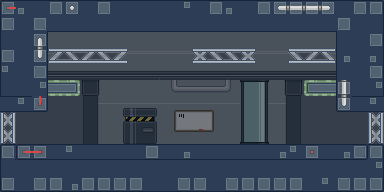
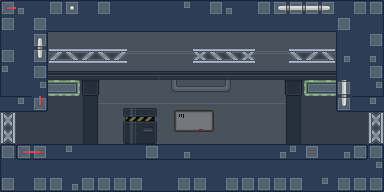
BeamMeUp Module, ModuleBuilder, bunch of progress I dont plan on missing

Changed region(s): [[0.625, 0.4062, 0.7188, 0.75]]

diff --git a/src/gamemap/homeship/HomeshipicalBuilder.ts b/src/gamemap/homeship/HomeshipicalBuilder.ts
@@ -2,21 +2,33 @@ import { Assets, AssetUrls } from '../../asset/Assets'
 import { Container } from '../../engine/display/Container'
 import { Sprite } from '../../engine/display/Sprite'
 import { Rect } from '../../engine/math/Rect'
+import { Flogger } from '../../service/Flogger'
 import { SphericalResponse } from '../spherical/SphericalBuilder'
 import { SphericalHelper } from '../spherical/SphericalHelper'
+import { HomeshipicalRespone, IHomeshipical } from './Homeshipical'
+import { HomeshipicalModuleBuilder, IHomeshipicalModuleBuilder } from './HomeshipicalModuleBuilder'
 
 export interface IHomeshipicalBuilder {
     buildLocalHomeshipical(): Promise<SphericalResponse>
 }
 
+export interface HomeshipicalBuilderOptions {
+    homeship: IHomeshipical
+}
+
 export class HomeshipicalBuilder implements IHomeshipicalBuilder {
+    moduleBuilder: IHomeshipicalModuleBuilder
+    
+    constructor(options: HomeshipicalBuilderOptions) {
+        const homeship = options.homeship
+        this.moduleBuilder = new HomeshipicalModuleBuilder({ homeship })
+    }
 
-    constructor() {}
-
-    async buildLocalHomeshipical(): Promise<SphericalResponse> {
+    async buildLocalHomeshipical(): Promise<HomeshipicalRespone> {
         const tileLayer = new Container()
         const homeshipTexture = PIXI.Texture.from(Assets.get(AssetUrls.HOME_SHIP))
         const homeshipSprite = new Sprite({ texture: homeshipTexture })
+        const moduleLayer = this.buildHomeshipModules()
         
         tileLayer.addChild(homeshipSprite)
 
@@ -24,7 +36,8 @@ export class HomeshipicalBuilder implements IHomeshipicalBuilder {
 
         return {
             tileLayer,
-            collisionRects
+            collisionRects,
+            moduleLayer
         }
     }
 
@@ -44,5 +57,11 @@ export class HomeshipicalBuilder implements IHomeshipicalBuilder {
         collisionRects.push(groundRect)
 
         return collisionRects
+    }
+
+    private buildHomeshipModules(): Container {
+        Flogger.log('HomeshipicalBuilder', 'buildHomeshipicalModules')
+        
+        return this.moduleBuilder.buildHomeshipicalModules()
     }
 }

diff --git a/src/gamemap/homeship/Homeshipical.ts b/src/gamemap/homeship/Homeshipical.ts
@@ -1,3 +1,4 @@
+import { Container } from '../../engine/display/Container'
 import { GameMapContainer, IGameMapContainer } from '../GameMapContainer'
 import { SphericalResponse } from '../spherical/SphericalBuilder'
 import { HomeshipicalBuilder, IHomeshipicalBuilder } from './HomeshipicalBuilder'
@@ -8,13 +9,14 @@ export interface IHomeshipical extends IGameMapContainer {
 }
 
 export interface HomeshipicalRespone extends SphericalResponse {
-
+    moduleLayer: Container
 }
 
 export class Homeshipical extends GameMapContainer implements IHomeshipical {
     private static INSTANCE: Homeshipical
     builder: IHomeshipicalBuilder
     outline: HomeshipicalOutline
+    moduleLayer: Container
 
     static getInstance() {
         if (Homeshipical.INSTANCE === undefined) {
@@ -29,7 +31,7 @@ export class Homeshipical extends GameMapContainer implements IHomeshipical {
 
         const homeship = this
 
-        this.builder = new HomeshipicalBuilder()
+        this.builder = new HomeshipicalBuilder({ homeship })
         this.outline = new HomeshipicalOutline({ homeship })
     }
 
@@ -42,9 +44,12 @@ export class Homeshipical extends GameMapContainer implements IHomeshipical {
             this.builder.buildLocalHomeshipical().then((response: HomeshipicalRespone) => {
                 this.tileLayer = response.tileLayer
                 this.collisionRects = response.collisionRects
+                this.moduleLayer = response.moduleLayer
 
                 this.addChild(this.tileLayer)
                 this.addChild(this.outline)
+                this.addChild(this.moduleLayer)
+                
                 this.outline.initialize()
 
                 super.initializeMap()

diff --git a/src/gamemap/homeship/HomeshipicalModuleBuilder.ts b/src/gamemap/homeship/HomeshipicalModuleBuilder.ts
@@ -1,0 +1,49 @@
+import { Container } from '../../engine/display/Container'
+import { Flogger } from '../../service/Flogger'
+import { IHomeshipical } from './Homeshipical'
+import { BeamMeUp } from './modules/beammeup/BeamMeUp'
+import { HomeshipicalModule } from './modules/HomeshipicalModule'
+
+export interface IHomeshipicalModuleBuilder {
+    buildHomeshipicalModules(): Container
+}
+
+export interface HomeshipicalModuleBuilderOptions {
+    homeship: IHomeshipical
+}
+
+export class HomeshipicalModuleBuilder implements IHomeshipicalModuleBuilder {
+    homeship: IHomeshipical
+
+    constructor(options: HomeshipicalModuleBuilderOptions) {
+        this.homeship = options.homeship
+    }
+
+    buildHomeshipicalModules(): Container {
+        Flogger.log('HomeshipicalModuleBuilder', 'buildHomeshipicalModules')
+
+        const moduleContainer = new Container()
+        const beamMeUp = new BeamMeUp()
+        const shipModules: HomeshipicalModule[] = [
+            beamMeUp
+        ]
+
+        moduleContainer.addChild(beamMeUp)
+
+        // TODO All not being kalled
+        // if (this.homeship !== undefined && this.homeship.groundRect !== undefined) {
+        //     const groundRect = this.homeship.groundRect
+
+        //     if (groundRect !== undefined) {
+        //         console.log('%cgroundrectisdefined','font-size:700%;background-color:navy')
+        //         for (var i in shipModules) {
+        //             const shipModule = shipModules[i]
+        
+        //             shipModule.attachToGround(groundRect)
+        //         }
+        //     }
+        // }
+
+        return moduleContainer
+    }
+}

diff --git a/src/gamemap/homeship/modules/HomeshipicalModule.ts b/src/gamemap/homeship/modules/HomeshipicalModule.ts
@@ -1,0 +1,37 @@
+import { Container, IContainer } from '../../../engine/display/Container'
+import { Sprite } from '../../../engine/display/Sprite'
+import { IRect } from '../../../engine/math/Rect'
+import { IUpdatable } from '../../../interface/IUpdatable'
+
+export interface IHomeShipicalModule extends IContainer, IUpdatable {
+    attachToGround(ground: IRect)
+}
+
+export interface HomeshipicalModuleOptions {
+    sprite?: Sprite
+}
+
+export class HomeshipicalModule extends Container implements IHomeShipicalModule {
+    sprite?: Sprite
+
+    currentGround: IRect
+
+    constructor(options?: HomeshipicalModuleOptions) {
+        super()
+
+        if (options !== undefined) {
+            if (options.sprite !== undefined) {
+                this.sprite = options.sprite
+                this.addChild(this.sprite)
+            }
+        }
+    }
+
+    update() {
+        this.y = this.currentGround.y - this.height
+    }
+    
+    attachToGround(ground: IRect) {
+        this.currentGround = ground
+    }
+}

diff --git a/src/gamemap/homeship/modules/beammeup/BeamMeUp.ts b/src/gamemap/homeship/modules/beammeup/BeamMeUp.ts
@@ -1,0 +1,15 @@
+import { Assets, AssetUrls } from '../../../../asset/Assets'
+import { Sprite } from '../../../../engine/display/Sprite'
+import { HomeshipicalModule, IHomeShipicalModule } from '../HomeshipicalModule'
+
+export interface IBeamMeUp extends IHomeShipicalModule {
+
+}
+
+export class BeamMeUp extends HomeshipicalModule implements IBeamMeUp {
+    constructor() {
+        const texture = PIXI.Texture.from(Assets.get(AssetUrls.HSM_BEAM_ME_UP))
+        const sprite = new Sprite({ texture })
+        super({ sprite })
+    }
+}

diff --git a/src/asset/Assets.ts b/src/asset/Assets.ts
@@ -177,4 +177,5 @@ export class AssetUrls {
 
     // Homeship
     static HOME_SHIP = 'assets/image/gamemap/homeship/homeship_bg'
+    static HSM_BEAM_ME_UP = 'assets/image/gamemap/homeship/modules/beammeup'
 }
